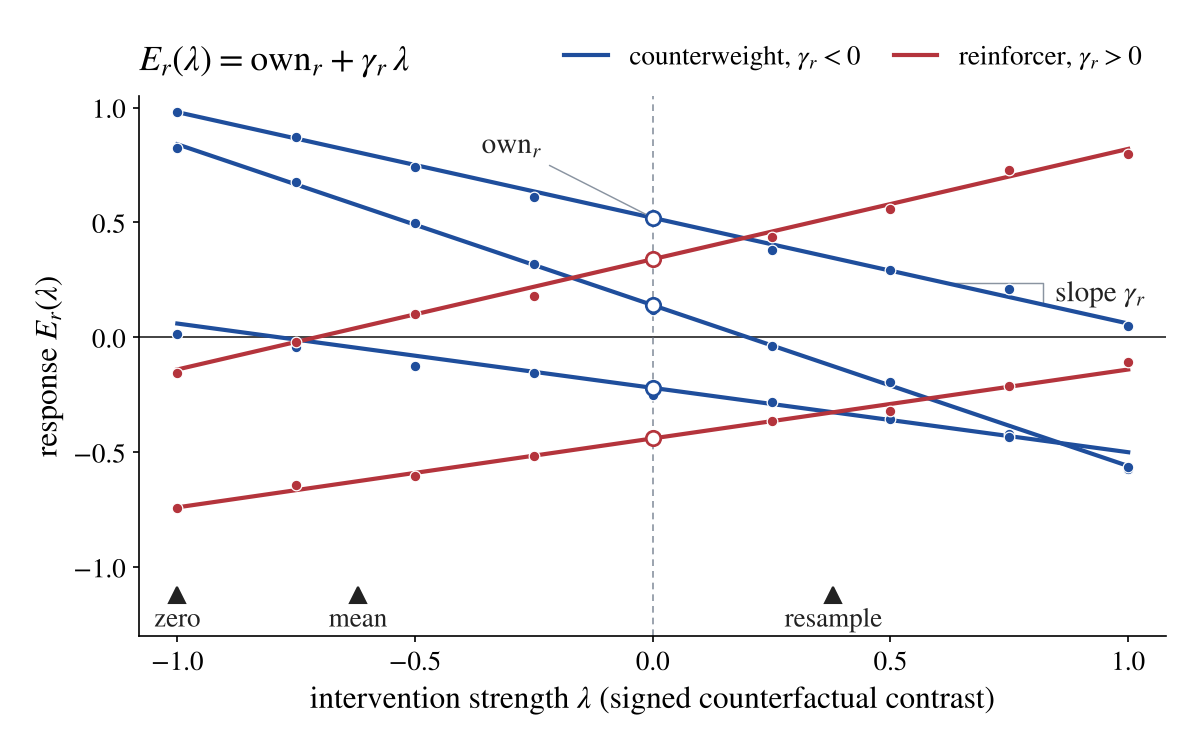
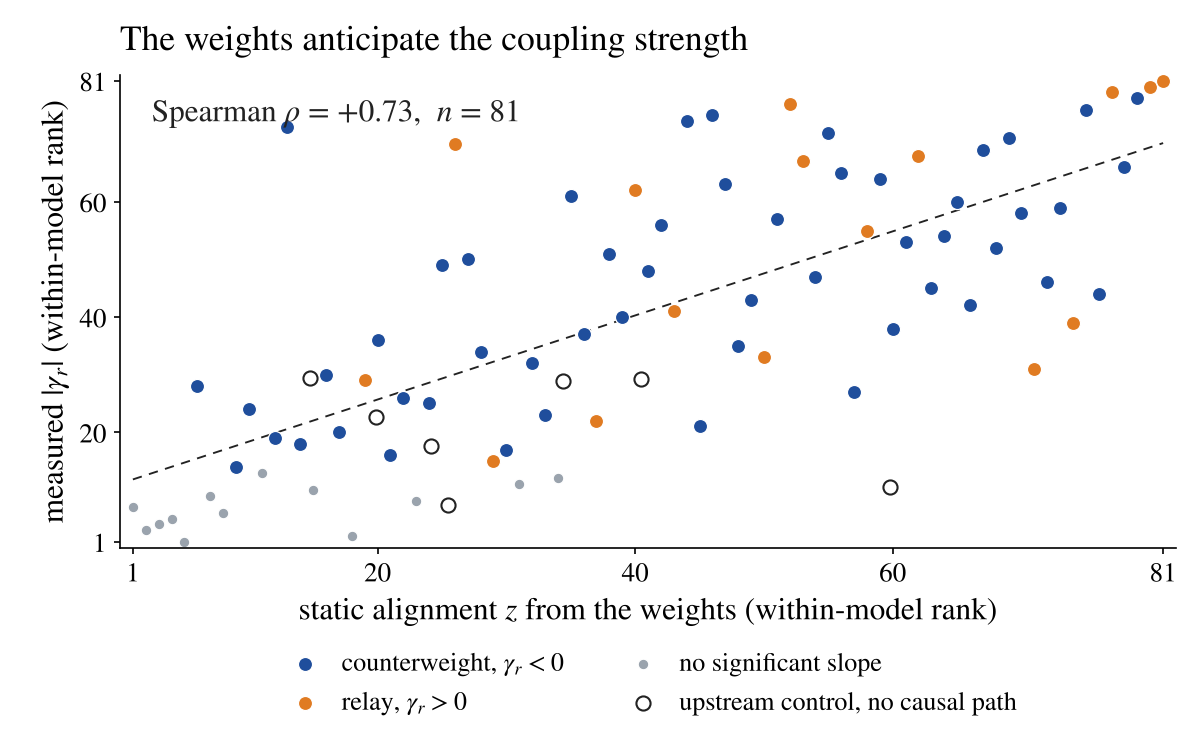
Model the ablation-paper tile on the paper's Figure 2
Static weight alignment against measured |gamma| as within-model ranks:
blue counterweights, orange relays, hollow upstream controls, with the
reported pooled Spearman rho of +0.73 over n = 81. Points are synthetic,
seeded to reproduce the reported correlation and class counts.

Claude-Session: https://claude.ai/code/session_01KY8L3rmtQEV28zjXB6PVji

diff --git a/figures_src/dose_fig.py b/figures_src/dose_fig.py
@@ -1,52 +1,59 @@
+"""Figure for 'Every Ablation Is a Dose' (arXiv:2610.02173), modelled on the
+paper's Figure 2: static weight alignment z against measured |gamma|, as
+within-model ranks. Points are synthetic, generated to match the reported
+counts (52 counterweights, 16 relays, 81 downstream directions) and the
+pooled rank correlation (+0.73). Run from the repo root."""
 import numpy as np, matplotlib
 matplotlib.use("Agg")
 import matplotlib.pyplot as plt
-from matplotlib import font_manager
-# Use the site's serif if present, else STIX (matplotlib's bundled Times-like)
-plt.rcParams.update({"font.family":"STIXGeneral","mathtext.fontset":"stix","font.size":15,
-                     "axes.linewidth":0.8,"xtick.major.width":0.8,"ytick.major.width":0.8})
-rng=np.random.default_rng(7)
-BLUE="#1f4e9c"; RED="#b4343c"; INK="#222"; GREY="#8a94a1"
+from scipy.stats import spearmanr
 
-fig,ax=plt.subplots(figsize=(8,5),dpi=150)
-lam=np.linspace(-1,1,400)
-samples=np.array([-1,-0.75,-0.5,-0.25,0,0.25,0.5,0.75,1.0])
-# illustrative units (own_r, gamma_r)
-units=[(0.52,-0.46),(0.14,-0.70),(-0.22,-0.28),(0.34,0.48),(-0.44,0.30)]
-for own,g in units:
-    c=BLUE if g<0 else RED
-    ax.plot(lam,own+g*lam,color=c,lw=2,zorder=2)
-    y=own+g*samples+rng.normal(0,0.025,samples.size)
-    ax.scatter(samples,y,s=26,color=c,zorder=3,edgecolor="white",linewidth=0.6)
-    ax.scatter([0],[own],s=48,facecolor="white",edgecolor=c,linewidth=1.3,zorder=4)
+plt.rcParams.update({"font.family": "STIXGeneral", "mathtext.fontset": "stix",
+                     "font.size": 15, "axes.linewidth": 0.8})
+BLUE, ORANGE, GREY, INK = "#1f4e9c", "#e07b22", "#9aa3ad", "#222"
+N, N_CW, N_RL, TARGET = 81, 52, 16, 0.73
 
-ax.axhline(0,color=INK,lw=0.8,zorder=1)
-ax.axvline(0,color=GREY,lw=0.8,ls=(0,(4,3)),zorder=1)
+# search seeds for a sample whose Spearman rho rounds to the reported value
+best = None
+for seed in range(2000):
+    rng = np.random.default_rng(seed)
+    z = rng.normal(size=N)
+    g = 0.78 * z + np.sqrt(1 - 0.78**2) * rng.normal(size=N)
+    rho = spearmanr(z, g).correlation
+    if abs(rho - TARGET) < 0.003:
+        best = (seed, z, g, rho); break
+seed, z, g, rho = best
+rx = np.argsort(np.argsort(z)) + 1          # within-model ranks, 1..81
+ry = np.argsort(np.argsort(g)) + 1
+# the 13 directions without a significant slope sit at the low-|gamma| end
+order = np.argsort(ry)
+ns, sig = order[:N - N_CW - N_RL], order[N - N_CW - N_RL:]
+rng = np.random.default_rng(seed)
+rl = rng.choice(sig, N_RL, replace=False)
+cw = np.setdiff1d(sig, rl)
+# a few upstream controls (no causal path), hollow, off the trend
+ctrl_x = rng.uniform(5, 78, 7); ctrl_y = rng.uniform(3, 30, 7)
 
-# conventional ablations as uncalibrated points on the dose axis (positions illustrative)
-for x,label in [(-1.0,"zero"),(-0.62,"mean"),(0.38,"resample")]:
-    ax.plot([x],[-1.12],marker="^",color=INK,ms=8,zorder=5,clip_on=False)
-    ax.annotate(label,(x,-1.17),ha="center",va="top",fontsize=13,color=INK)
+fig, ax = plt.subplots(figsize=(8, 5), dpi=150)
+ax.scatter(rx[cw], ry[cw], s=46, color=BLUE, edgecolor="white", linewidth=0.6, zorder=3, label="counterweight, $\\gamma_r<0$")
+ax.scatter(rx[rl], ry[rl], s=46, color=ORANGE, edgecolor="white", linewidth=0.6, zorder=3, label="relay, $\\gamma_r>0$")
+ax.scatter(rx[ns], ry[ns], s=26, color=GREY, edgecolor="white", linewidth=0.6, zorder=2, label="no significant slope")
+ax.scatter(ctrl_x, ctrl_y, s=46, facecolor="white", edgecolor=INK, linewidth=1.0, zorder=3, label="upstream control, no causal path")
 
-# slope & intercept annotations on one blue unit
-own,g=units[0]
-ax.annotate(r"own$_r$",(0,own),xytext=(-0.36,0.80),fontsize=14,color=INK,
-            arrowprops=dict(arrowstyle="-",color=GREY,lw=0.7))
-x0,x1=0.62,0.82
-ax.plot([x0,x1,x1],[own+g*x0,own+g*x0,own+g*x1],color=GREY,lw=0.7,zorder=1)
-ax.annotate(r"slope $\gamma_r$",(x1,own+g*(x0+x1)/2),xytext=(6,0),textcoords="offset points",fontsize=14,color=INK,va="center")
+# rank-regression trend, drawn lightly
+b, a = np.polyfit(rx, ry, 1)
+xx = np.array([1, N]); ax.plot(xx, a + b * xx, color=INK, lw=0.9, ls=(0, (5, 4)), zorder=1)
 
-ax.set_xlim(-1.08,1.08); ax.set_ylim(-1.3,1.05)
-ax.set_xticks([-1,-0.5,0,0.5,1]); ax.set_yticks([-1,-0.5,0,0.5,1]); ax.tick_params(labelsize=13)
-ax.set_xlabel(r"intervention strength $\lambda$ (signed counterfactual contrast)",fontsize=15)
-ax.set_ylabel(r"response $E_r(\lambda)$",fontsize=15)
-for s in ("top","right"): ax.spines[s].set_visible(False)
-ax.tick_params(length=3)
-from matplotlib.lines import Line2D
-ax.legend(handles=[Line2D([],[],color=BLUE,lw=2,label=r"counterweight, $\gamma_r<0$"),
-                   Line2D([],[],color=RED,lw=2,label=r"reinforcer, $\gamma_r>0$")],
-          loc="lower right",bbox_to_anchor=(1.0,1.0),ncol=2,frameon=False,fontsize=13,handlelength=1.6,columnspacing=1.2)
-ax.set_title(r"$E_r(\lambda)=\mathrm{own}_r+\gamma_r\,\lambda$",fontsize=17,loc="left",pad=12)
-fig.tight_layout()
-fig.savefig("figures/dose.png",dpi=150,facecolor="white")
-print("ok")
+ax.text(0.03, 0.95, f"Spearman $\\rho$ = +{rho:.2f},  $n$ = {N}", transform=ax.transAxes,
+        ha="left", va="top", fontsize=15, color=INK)
+ax.set_xlabel("static alignment $z$ from the weights (within-model rank)")
+ax.set_ylabel("measured $|\\gamma_r|$ (within-model rank)")
+ax.set_xlim(0, N + 1); ax.set_ylim(0, N + 1)
+ax.set_xticks([1, 20, 40, 60, 81]); ax.set_yticks([1, 20, 40, 60, 81])
+ax.tick_params(labelsize=13, length=3)
+for s in ("top", "right"): ax.spines[s].set_visible(False)
+ax.legend(loc="upper center", bbox_to_anchor=(0.5, -0.17), ncol=2, frameon=False, fontsize=12.5, handletextpad=0.4, columnspacing=2.0)
+ax.set_title("The weights anticipate the coupling strength", loc="left", fontsize=17, pad=12)
+fig.subplots_adjust(left=0.1, right=0.98, top=0.9, bottom=0.27)
+fig.savefig("figures/dose.png", dpi=150, facecolor="white")
+print("seed", seed, "rho", round(rho, 3))

diff --git a/README.md b/README.md
@@ -9,12 +9,12 @@ Personal research site, served by GitHub Pages from the `main` branch. Plain HTM
 | `reading.html` | Bookshelf |
 | `style.css` | Shared styles, light and dark |
 | `figures/*.png` | A detail cropped from each paper's main figure (from the papers' GitHub repos), used on the home page and as thumbnails on the publications page |
-| `figures/dose.png` | Schematic of the affine law for the ablation paper, rendered by `figures_src/dose_fig.py` (illustrative values, not paper data) |
+| `figures/dose.png` | For the ablation paper: a version of its Figure 2 (weight alignment vs measured \|γ\|), rendered by `figures_src/dose_fig.py` with synthetic points matched to the reported counts and correlation |
 | `figures_src/` | Sources for figures: the plotting script, and original full-size figures that the crops in `figures/` come from |
 | `favicon.svg` | Site icon |
 
 ## Common edits
 
 - **New paper:** add an `<li>` under the right year in `publications.html`. If it belongs on the home page, see the next-but-one item.
-- **Replace or add a figure:** tiles are 16:10 with a white background and `object-fit: contain`, so export a crop at about 1200×750 (white background) into `figures/` and point the two `src` attributes at it (home page and publications page). The ablation paper's tile is a schematic made by `python3 figures_src/dose_fig.py` (run from the repo root); replace `figures/dose.png` with a crop of the paper's own figure when you want the real one.
+- **Replace or add a figure:** tiles are 16:10 with a white background and `object-fit: contain`, so export a crop at about 1200×750 (white background) into `figures/` and point the two `src` attributes at it (home page and publications page). The ablation paper's tile is made by `python3 figures_src/dose_fig.py` (run from the repo root); replace `figures/dose.png` with a crop of the paper's own Figure 2 when you want the real one.
 - **New paper on the home page:** copy one `<li>` in the `.papers` list in `index.html`. The grid is 2 across, so keep the count even.
